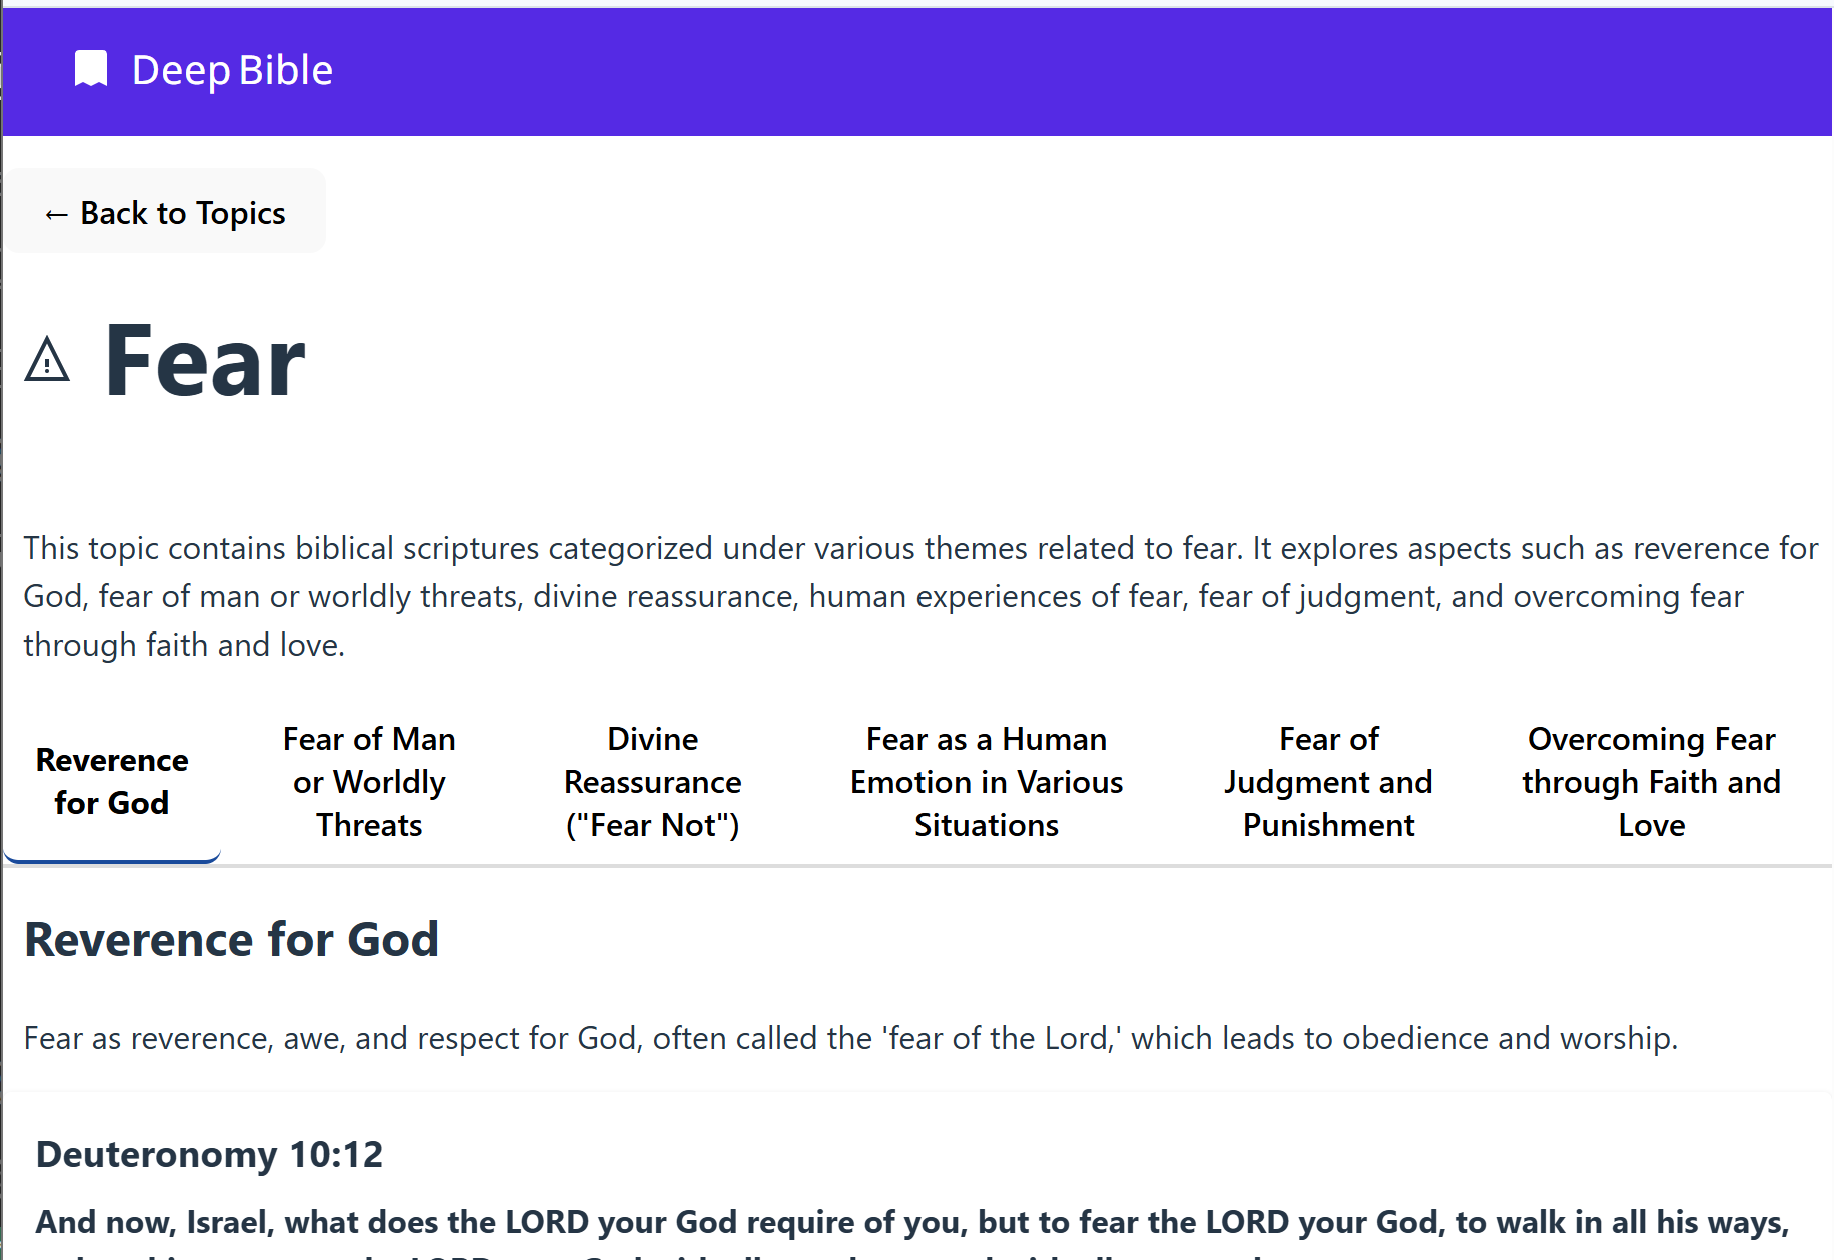
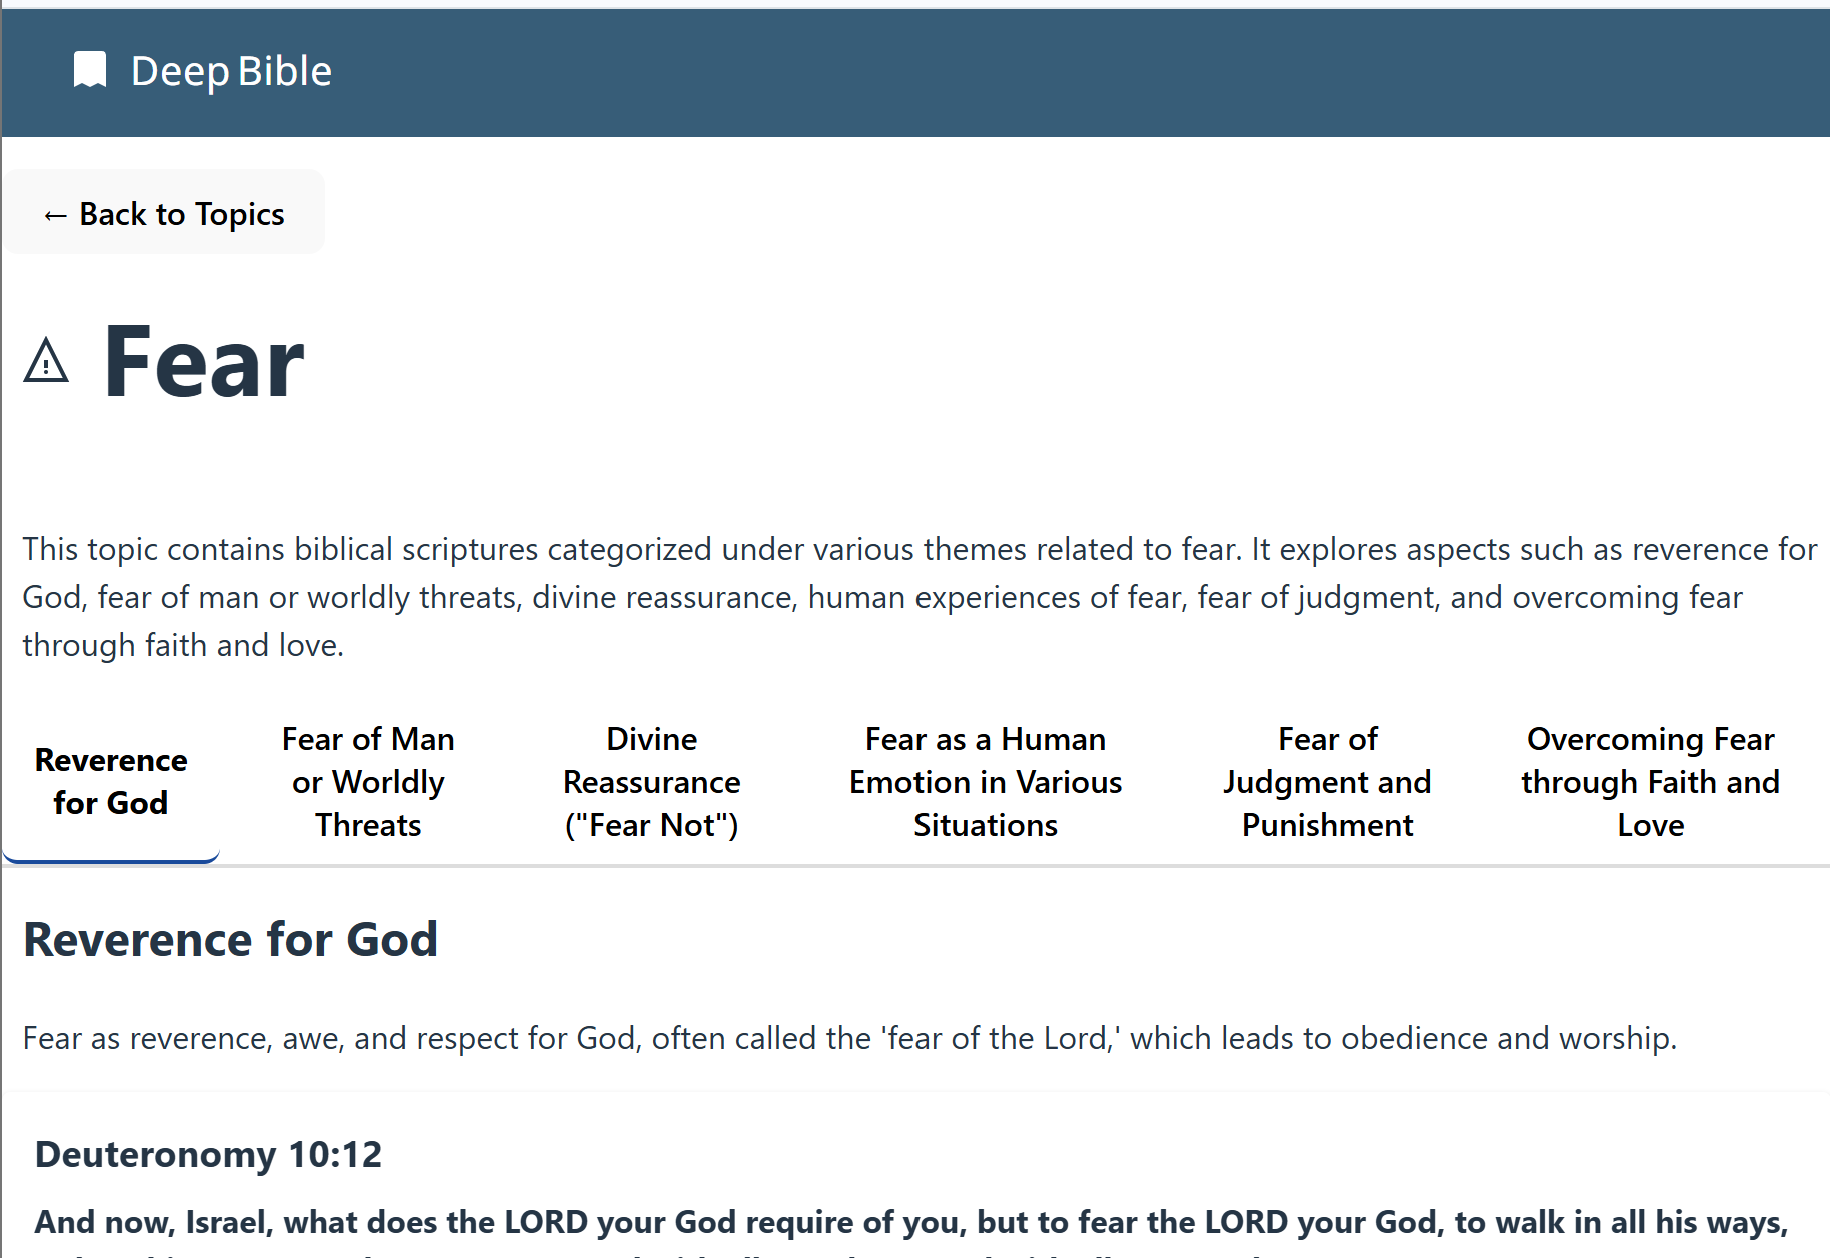
color paket

diff --git a/frontend/src/App.css b/frontend/src/App.css
@@ -1,3 +1,27 @@
+/* 1. Define your palette variables (from main.png & detail.png) */
+:root {
+  /* Raw palette */
+  --color-dim-gray:     #686868;   /* Dim gray */
+  --color-mauve:        #C2AFF0;   /* Mauve */
+  --color-indigo:       #9191E9;   /* Tropical indigo */
+  --color-steel-blue:   #457EAC;   /* Steel blue */
+  --color-lapis:        #2D5D7B;   /* Lapis Lazuli */
+
+}
+
+/* CSS Color Palette */
+:root {
+  --color-primary: var(--color-lapis);
+  --color-primary-hover: #535bf2;
+  --color-tab-active: #0d47a1;
+  --color-card-bg: #f2f5f8;
+  --color-text-secondary: #5c71c5;
+  --color-dark-bg: #242424;
+  --color-dark-text: #ffffff;
+  --color-light-bg: #ffffff;
+  --color-light-text: #213547;
+}
+
 #root {
   /* Removed default centering to make TopAppBar flush to edges */
   margin: 0;
@@ -11,10 +35,10 @@
   transition: filter 300ms;
 }
 .logo:hover {
-  filter: drop-shadow(0 0 2em #646cffaa);
+  filter: drop-shadow(0 0 2em var(--color-primary));
 }
 .logo.react:hover {
-  filter: drop-shadow(0 0 2em #61dafbaa);
+  filter: drop-shadow(0 0 2em var(--color-primary-hover));
 }
 
 .cardTitle {
@@ -60,9 +84,16 @@
 .mdc-top-app-bar {
   top: 0;
   left: 0;
+  /* App bar theme */
+  background-color: var(--color-primary);
+  color: var(--color-dark-text);
 }
 .read-the-docs {
-  color: #888;
+  color: var(--color-text-secondary);
+}
+/* Read More button color override */
+.read-more-button {
+  color: var(--color-text-secondary) !important;
 }
 /* Clamp overflowing description text in cards */
 .description {
@@ -89,6 +120,6 @@
   border-bottom: 2px solid transparent;
 }
 .tab.active {
-  border-color: #0d47a1;
+  border-color: var(--color-tab-active);
   font-weight: bold;
 }

diff --git a/frontend/src/App.jsx b/frontend/src/App.jsx
@@ -128,7 +128,7 @@ function App() {
                       <p
                         style={{
                           fontStyle: 'italic',
-                          color: '#555',
+                          color: 'var(--color-text-secondary)',
                           margin: 0
                         }}
                       >
@@ -149,7 +149,7 @@ function App() {
                       flexDirection: 'column',
                       width: '100%',
                       aspectRatio: '4 / 3',
-                      backgroundColor: '#fffff0'
+                      backgroundColor: 'var(--color-card-bg)'
                     }}
                   >
                     <CardPrimaryAction
@@ -179,7 +179,10 @@ function App() {
                     </CardPrimaryAction>
                     <CardActions style={{ marginTop: 'auto' }}>
                       <CardActionButtons>
-                        <CardActionButton onClick={() => setSelectedTopic(topic)}>
+                        <CardActionButton
+                          className="read-more-button"
+                          onClick={() => setSelectedTopic(topic)}
+                        >
                           Read More
                         </CardActionButton>
                       </CardActionButtons>
